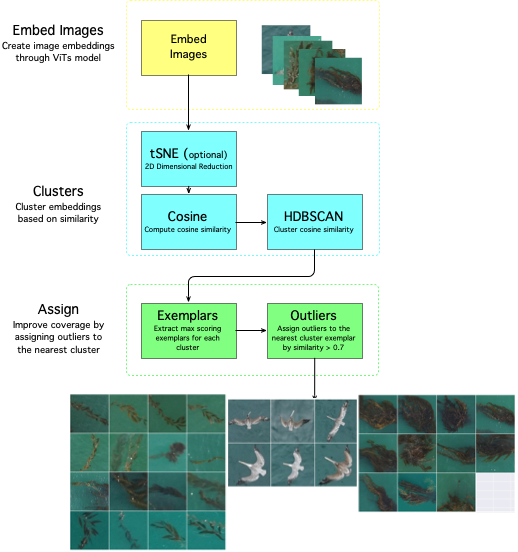
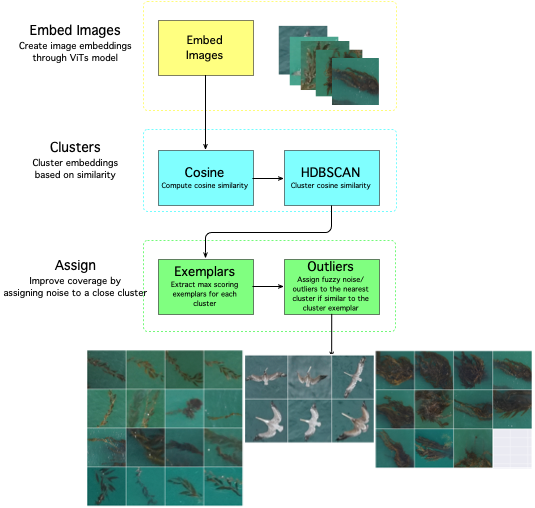
feat: added softcluster (#19)
* perf: better defaults for finer-grained clustering with google model

* feat: added soft clustering for leaf method only

* fix: remove default as this overrides what is in the .ini file

* perf: add batch size as command option --batch-size; default is 32 but best size depends on GPU/model memory

* fix: correct args for multiproc

* perf: combine soft/fuzzy and cosine sim

* docs: update workflow diagram with soft/fuzzy algorithm

* fix: handle models that only output top 1

* fix: only capture top 2 classes and scores

* chore: merged changes from main

Changed region(s): [[0.0, 0.0, 1.0, 1.0], [0.0309, 0.2657, 0.2162, 0.4134]]

diff --git a/sdcat/cluster/cluster.py b/sdcat/cluster/cluster.py
@@ -13,6 +13,7 @@ import json
 
 import seaborn as sns
 import numpy as np
+import hdbscan
 from umap import UMAP
 from hdbscan import HDBSCAN
 from sklearn.metrics.pairwise import cosine_similarity
@@ -111,8 +112,13 @@ def _run_hdbscan_assign(
     :param out_path:  The output path to save the clustering artifacts to
     :return: The average similarity score for each cluster, exemplar_df, cluster ids, cluster means, and coverage
     """
-    info(f'Clustering using HDBSCAN using alpha {alpha} cluster_selection_epsilon {cluster_selection_epsilon} '
-         f'min_samples {min_samples} use_tsne {use_tsne} ...')
+    info(f'Clustering using HDBSCAN with: \n'
+        f'alpha {alpha} \n'
+        f'cluster_selection_epsilon {cluster_selection_epsilon} \n'
+        f'min_samples {min_samples} \n'
+        f'min_cluster_size {min_cluster_size} \n'
+        f'cluster_selection_method {cluster_selection_method} \n'
+        f'use_tsne {use_tsne} ...')
 
     # Remove any existing cluster images in the output_path
     for c in out_path.parent.rglob(f'{prefix}_*cluster*.png'):
@@ -160,6 +166,7 @@ def _run_hdbscan_assign(
             labels = scan.fit_predict(x)
         else:
             scan = HDBSCAN(
+                    prediction_data=True,
                     metric='l2',
                     allow_single_cluster=True,
                     min_cluster_size=min_cluster_size,
@@ -221,14 +228,42 @@ def _run_hdbscan_assign(
     clustered = labels >= 0
     coverage = np.sum(clustered) / num_samples
     if coverage < 1.0:
-        # Reassign based on the closest distance to exemplar
-        for i, label in enumerate(labels):
-            if label == -1:
-                similarity_scores = cosine_similarity(image_emb[i].reshape(1, -1), exemplar_emb)
-                closest_match_index = np.argmax(similarity_scores)
-                # Only reassign if the similarity score is above the threshold
-                if similarity_scores[0][closest_match_index] >= min_similarity:
-                    labels[i] = closest_match_index
+        mixed_points = []
+        if cluster_selection_method == 'leaf':  # Only tested with leaf; oem fails
+            clusterer = scan.fit(x)
+
+            # Credit to hdbscan docs https://hdbscan.readthedocs.io/en/latest/soft_clustering.html
+            def top_two_probs_diff(probs):
+                sorted_probs = np.sort(probs)
+                return sorted_probs[-1] - sorted_probs[-2]
+
+            # Get the soft cluster assignments
+            soft_clusters = hdbscan.all_points_membership_vectors(clusterer)
+            # Compute the differences between the top two probabilities
+            diffs = np.array([top_two_probs_diff(x) for x in soft_clusters])
+            mean_diffs = np.mean(diffs)
+            std_diffs = np.std(diffs)
+            mean_cluster_probs = np.mean(np.max(soft_clusters, axis=1))
+            std_cluster_probs = np.std(np.max(soft_clusters, axis=1))
+            info(f'Mean cluster probability: {mean_cluster_probs:.4f} std {std_cluster_probs:.4f}')
+            info(f'Difference between top two probabilities: {mean_diffs:.4f} std {std_diffs:.4f}')
+            cut_off_diff = mean_diffs + 2 * std_diffs
+            # Select out the indices that have a small difference, and a larger total probability
+            mixed_points = np.where((diffs < cut_off_diff) & (np.sum(soft_clusters, axis=1) > 0.6))[0]
+        else:
+            warn('Only leaf method is supported for soft clustering')
+
+        if len(mixed_points) > 0:
+            reassign_labels = mixed_points
+        else:
+            reassign_labels = np.where(labels == -1)[0]
+        # Reassign based on the soft clustering only if very similar to the exemplar
+        for i, label in enumerate(reassign_labels):
+            similarity_scores = cosine_similarity(image_emb[i].reshape(1, -1), exemplar_emb)
+            closest_match_index = np.argmax(similarity_scores)
+            # Only reassign if the similarity score is above the threshold
+            if similarity_scores[0][closest_match_index] >= min_similarity:
+                labels[i] = closest_match_index
 
     clusters = [[] for _ in range(len(unique_clusters))]
 
@@ -324,7 +359,9 @@ def cluster_vits(
         use_tsne: bool = False,
         skip_visualization: bool = False,
         remove_bad_images: bool = False,
-        roi: bool = False) -> pd.DataFrame:
+        roi: bool = False,
+        batch_size: int = 32
+) -> pd.DataFrame:
     """  Cluster the crops using the VITS embeddings.
     :param prefix:  A unique prefix to save artifacts from clustering
     :param model: The model to use for clustering
@@ -392,7 +429,7 @@ def cluster_vits(
     # Skip the embedding extraction if all the embeddings are cached
     if num_cached != len(images):
         debug(f'Extracted embeddings from {len(images)} images using model {model}...')
-        compute_norm_embedding(model, images, device)
+        compute_norm_embedding(model, images, device, batch_size)
 
     # Fetch the cached embeddings
     debug('Fetching embeddings ...')

diff --git a/sdcat/cluster/commands.py b/sdcat/cluster/commands.py
@@ -32,11 +32,12 @@ from sdcat.cluster.cluster import cluster_vits
 @common_args.cluster_selection_epsilon
 @common_args.cluster_selection_method
 @common_args.min_cluster_size
+@common_args.batch_size
 @click.option('--det-dir', help='Input folder(s) with raw detection results', multiple=True, required=True)
 @click.option('--save-dir', help='Output directory to save clustered detection results', required=True)
 @click.option('--device', help='Device to use, e.g. cpu or cuda:0', type=str, default='cpu')
 @click.option('--use-vits', help='Set to using the predictions from the vits cluster model', is_flag=True)
-def run_cluster_det(det_dir, save_dir, device, use_vits, config_ini, alpha, cluster_selection_epsilon, cluster_selection_method, min_cluster_size, start_image, end_image, use_tsne, skip_visualization):
+def run_cluster_det(det_dir, save_dir, device, use_vits, config_ini, alpha, cluster_selection_epsilon, cluster_selection_method, min_cluster_size, batch_size, start_image, end_image, use_tsne, skip_visualization):
     config = cfg.Config(config_ini)
     max_area = int(config('cluster', 'max_area'))
     min_area = int(config('cluster', 'min_area'))
@@ -258,7 +259,7 @@ def run_cluster_det(det_dir, save_dir, device, use_vits, config_ini, alpha, clus
         df_cluster = cluster_vits(prefix, model, df, save_dir, alpha, cluster_selection_epsilon, cluster_selection_method,
                                   min_similarity, min_cluster_size, min_samples, device, use_tsne=use_tsne,
                                   skip_visualization=skip_visualization, roi=False, use_vits=use_vits,
-                                  remove_bad_images=remove_bad_images)
+                                  remove_bad_images=remove_bad_images, batch_size=batch_size)
 
         # Merge the results with the original DataFrame
         df.update(df_cluster)
@@ -277,11 +278,12 @@ def run_cluster_det(det_dir, save_dir, device, use_vits, config_ini, alpha, clus
 @common_args.cluster_selection_epsilon
 @common_args.cluster_selection_method
 @common_args.min_cluster_size
+@common_args.batch_size
 @click.option('--roi-dir', help='Input folder(s) with raw ROI images', multiple=True, required=True)
 @click.option('--save-dir', help='Output directory to save clustered detection results', required=True)
 @click.option('--device', help='Device to use, e.g. cpu or cuda:0', type=str)
 @click.option('--use-vits', help='Set to using the predictions from the vits cluster model', is_flag=True)
-def run_cluster_roi(roi_dir, save_dir, device, use_vits, config_ini, alpha, cluster_selection_epsilon, cluster_selection_method, min_cluster_size, use_tsne, skip_visualization):
+def run_cluster_roi(roi_dir, save_dir, device, use_vits, config_ini, alpha, cluster_selection_epsilon, cluster_selection_method, min_cluster_size, batch_size, use_tsne, skip_visualization):
     config = cfg.Config(config_ini)
     min_samples = int(config('cluster', 'min_samples'))
     alpha = alpha if alpha else float(config('cluster', 'alpha'))
@@ -372,7 +374,7 @@ def run_cluster_roi(roi_dir, save_dir, device, use_vits, config_ini, alpha, clus
                                   min_similarity, min_cluster_size, min_samples, device,
                                   use_tsne=use_tsne, use_vits=use_vits,
                                   skip_visualization=skip_visualization,  roi=True,
-                                  remove_bad_images=remove_bad_images)
+                                  remove_bad_images=remove_bad_images, batch_size=batch_size)
 
         # Merge the results with the original DataFrame
         df.update(df_cluster)

diff --git a/sdcat/cluster/embedding.py b/sdcat/cluster/embedding.py
@@ -117,15 +117,13 @@ def encode_image(filename):
     return keep
 
 
-def compute_embedding_vits(vit:ViTWrapper, images: list):
+def compute_embedding_vits(vit:ViTWrapper, images: list, batch_size:int=32):
     """
     Compute the embedding for the given images using the given model
     :param vitwrapper: Wrapper for the ViT model
     :param images: List of image filenames
-    :param model_name: Name of the model (i.e. google/vit-base-patch16-224, dinov2_vits16, etc.)
-    :param device: Device to use for the computation (cpu or cuda:0, cuda:1, etc.)
+    :param batch_size: Number of images to process in a batch
     """
-    batch_size = 32
     model_name = vit.model_name
 
     # Batch process the images
@@ -146,13 +144,14 @@ def compute_embedding_vits(vit:ViTWrapper, images: list):
             err(f'Error processing {batch}: {e}')
 
 
-def compute_norm_embedding(model_name: str, images: list, device: str = "cpu"):
+def compute_norm_embedding(model_name: str, images: list, device: str = "cpu", batch_size: int = 32):
     """
     Compute the embedding for a list of images and save them to disk.
     Args:
     :param images:  List of image paths
     :param model_name: Name of the model to use for the embedding generation
     :param device: Device to use for the computation (cpu or cuda:0, cuda:1, etc.)
+    :param batch_size: Number of images to process in a batch
     Returns:
 
     """
@@ -164,14 +163,14 @@ def compute_norm_embedding(model_name: str, images: list, device: str = "cpu"):
 
     # If using a GPU, set then skip the parallel CPU processing
     if torch.cuda.is_available():
-        compute_embedding_vits(vit_wrapper, images)
+        compute_embedding_vits(vit_wrapper, images, batch_size)
     else:
         # Use a pool of processes to speed up the embedding generation 20 images at a time on each process
         num_processes = min(multiprocessing.cpu_count(), len(images) // 20)
         num_processes = max(1, num_processes)
         info(f'Using {num_processes} processes to compute {len(images)} embeddings 20 at a time ...')
         with multiprocessing.Pool(num_processes) as pool:
-            args = [(vit_wrapper, images[i:i + 20]) for i in range(0, len(images), 20)]
+            args = [(vit_wrapper, images[i:i + 20], batch_size) for i in range(0, len(images), 20)]
             pool.starmap(compute_embedding_vits, args)
 
 

diff --git a/sdcat/common_args.py b/sdcat/common_args.py
@@ -32,15 +32,17 @@ cluster_selection_epsilon = click.option('--cluster-selection-epsilon',
 
 cluster_selection_method = click.option('--cluster-selection-method',
                                         type=str,
-                                        default='leaf',
-                                        help='Method for selecting the optimal number of clusters. '
+                                        help='Method for selecting the opdtimal number of clusters. '
                                              'Default is leaf. Options are leaf, eom, and dill')
 
 min_cluster_size = click.option('--min-cluster-size',
                                 type=int,
                                 help='The minimum number of samples in a group for that group to be considered a cluster. '
                                      'Default is 2. Increase for less conservative clustering, e.g. 5, 15')
-
+batch_size = click.option('--batch-size',
+                          type=int,
+                          default=32,
+                          help='Batch size for processing images. Default is 32')
 use_tsne = click.option('--use-tsne',
                         is_flag=True,
                         help='Use t-SNE for dimensionality reduction. Default is False')
